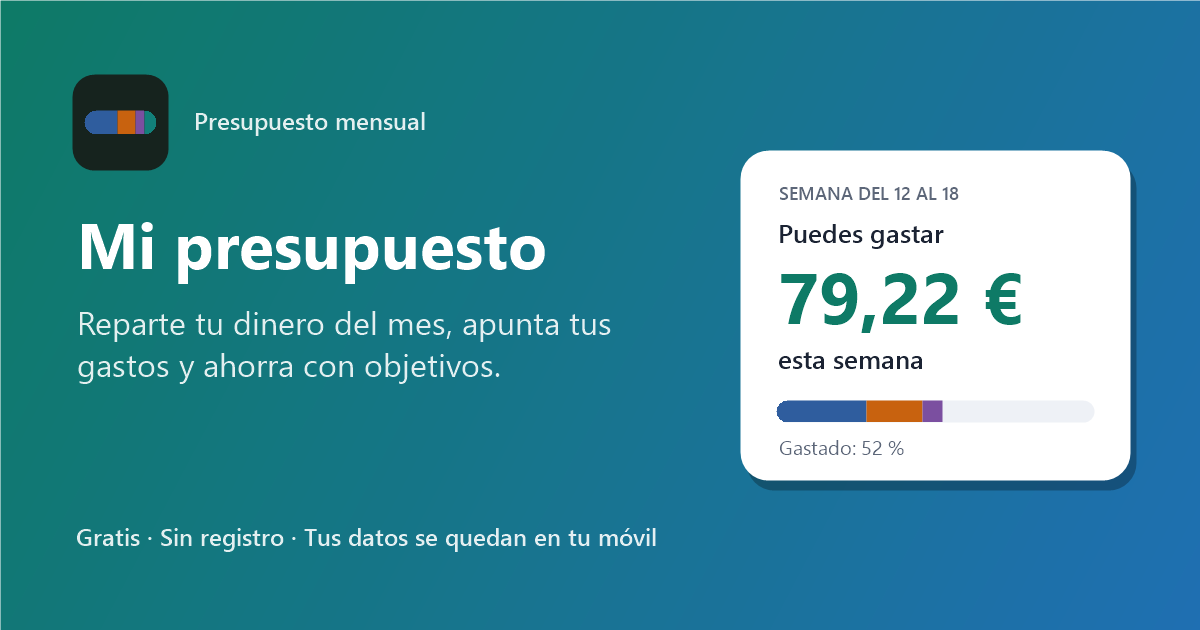
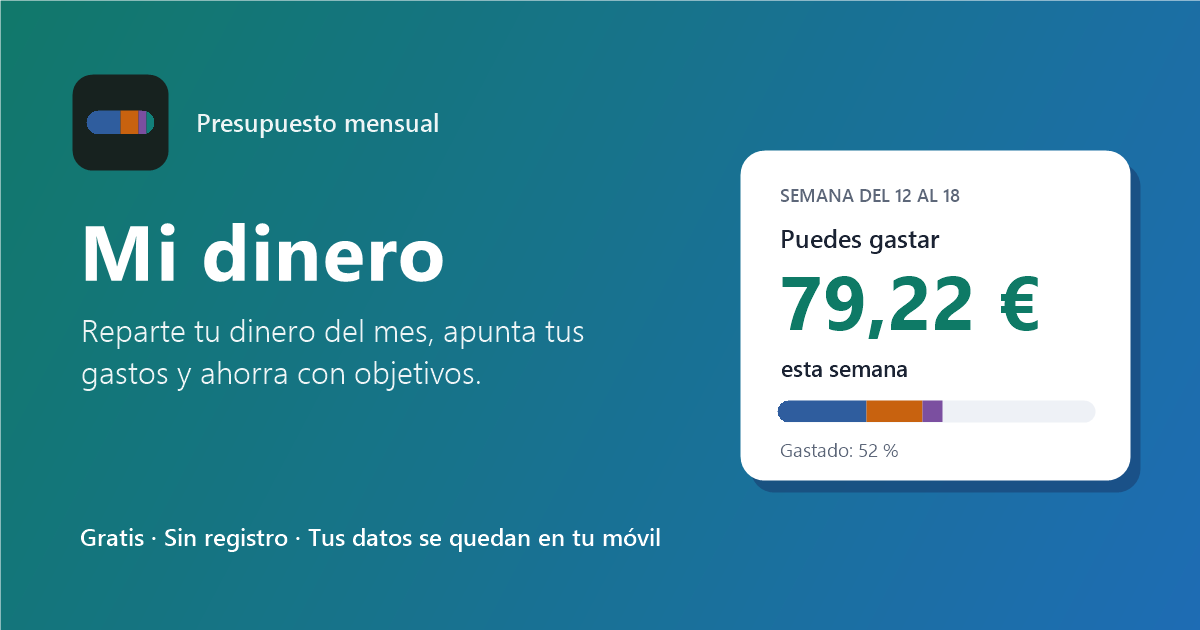
Imagen para compartir con el nombre «Mi dinero» y caché v22

diff --git a/index.html b/index.html
@@ -25,14 +25,14 @@
 <meta property="og:title" content="Mi dinero: reparte lo que tienes cada mes">
 <meta property="og:description" content="Apunta gastos en dos toques, mira cuánto puedes gastar esta semana y ahorra con objetivos. Gratis y sin registro.">
 <meta property="og:url" content="https://rodrigomarista08-blip.github.io/elpresupuesto.com/">
-<meta property="og:image" content="https://rodrigomarista08-blip.github.io/elpresupuesto.com/og-image.png">
+<meta property="og:image" content="https://rodrigomarista08-blip.github.io/elpresupuesto.com/og-image.png?v=2">
 <meta property="og:image:width" content="1200">
 <meta property="og:image:height" content="630">
 <meta property="og:image:alt" content="Mi dinero: tarjeta que dice «Puedes gastar 79,22 € esta semana».">
 <meta name="twitter:card" content="summary_large_image">
 <meta name="twitter:title" content="Mi dinero: reparte lo que tienes cada mes">
 <meta name="twitter:description" content="Apunta gastos en dos toques, mira cuánto puedes gastar esta semana y ahorra con objetivos. Gratis y sin registro.">
-<meta name="twitter:image" content="https://rodrigomarista08-blip.github.io/elpresupuesto.com/og-image.png">
+<meta name="twitter:image" content="https://rodrigomarista08-blip.github.io/elpresupuesto.com/og-image.png?v=2">
 <meta name="twitter:image:alt" content="Mi dinero: tarjeta que dice «Puedes gastar 79,22 € esta semana».">
 <meta name="claude:viewport-fit-sides" content="cover">
 <link rel="preload" href="fonts/plus-jakarta-sans-latin.woff2" as="font" type="font/woff2" crossorigin>

diff --git a/sw.js b/sw.js
@@ -1,4 +1,4 @@
-var CACHE = 'presupuesto-v21';
+var CACHE = 'presupuesto-v22';
 var FILES = ['./', './index.html', './errores.js', './prefs.js', './calc.js', './guia.js', './app.js', './fonts/plus-jakarta-sans-latin.woff2', './fonts/nunito-latin.woff2',
   './fonts/atkinson-hyperlegible-400-latin.woff2', './fonts/atkinson-hyperlegible-700-latin.woff2', './fonts/lora-latin.woff2', './manifest.webmanifest',
   './icon-192.png', './icon-512.png', './apple-touch-icon.png', './favicon.svg'];
